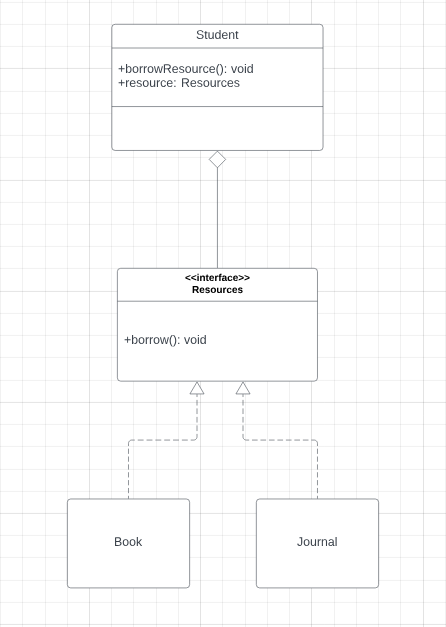
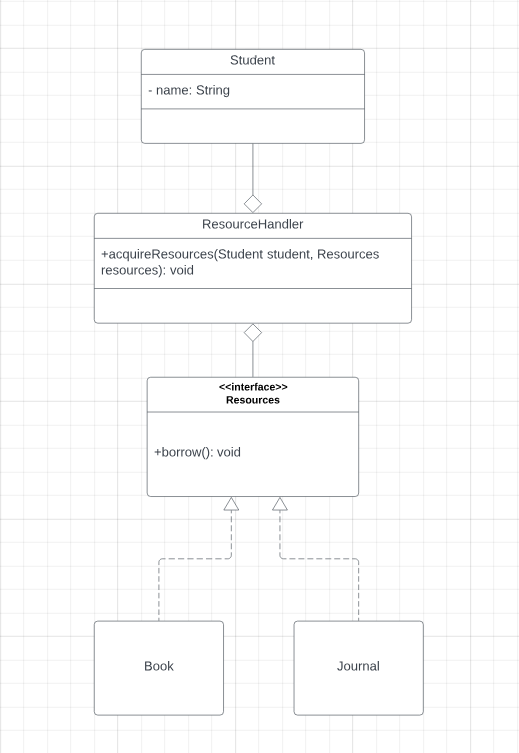
LAB6

diff --git a/TestProgram.java b/TestProgram.java
@@ -1,11 +1,11 @@
 public class TestProgram {
     public static void main(String[] args) {
-        Student student = new Student();
+        Student student = new Student("Student 1");
+        Book book = new Book("Book 1");
+        Journal journal = new Journal("Journal 1");
 
-        Resources book = new Book("");
-        Resources journal = new Journal("");
-
-        student.borrowResource(book);
-        student.borrowResource(journal);
+        ResourceHandler resourcesHandler = new ResourceHandler();
+        resourcesHandler.acquireResources(student, book);
+        resourcesHandler.acquireResources(student, journal);
     }
 }

diff --git a/Student.java b/Student.java
@@ -1,5 +1,11 @@
 public class Student {
-    public void borrowResource(Resources resource) {
-        resource.borrow();
+    private String name;
+
+    public Student(String name){
+        this.name=name;
+    }
+
+    public String getName() {
+        return name;
     }
 }

diff --git a/ResourceHandler.java b/ResourceHandler.java
@@ -1,0 +1,6 @@
+public class ResourceHandler {
+    public void acquireResources(Student student, Resources resources) {
+        System.out.println(student.getName() + " borrowed: ");
+        resources.borrow();
+    }
+}

diff --git a/Journal.java b/Journal.java
@@ -7,6 +7,6 @@ public class Journal implements Resources {
 
     @Override
     public void borrow() {
-        System.out.println("Journal borrowed: " + title);
+        System.out.println(title);
     }
 }

diff --git a/Book.java b/Book.java
@@ -7,6 +7,6 @@ public class Book implements Resources {
 
     @Override
     public void borrow() {
-        System.out.println("Book borrowed: " + title);
+        System.out.println(title);
     }
 }
